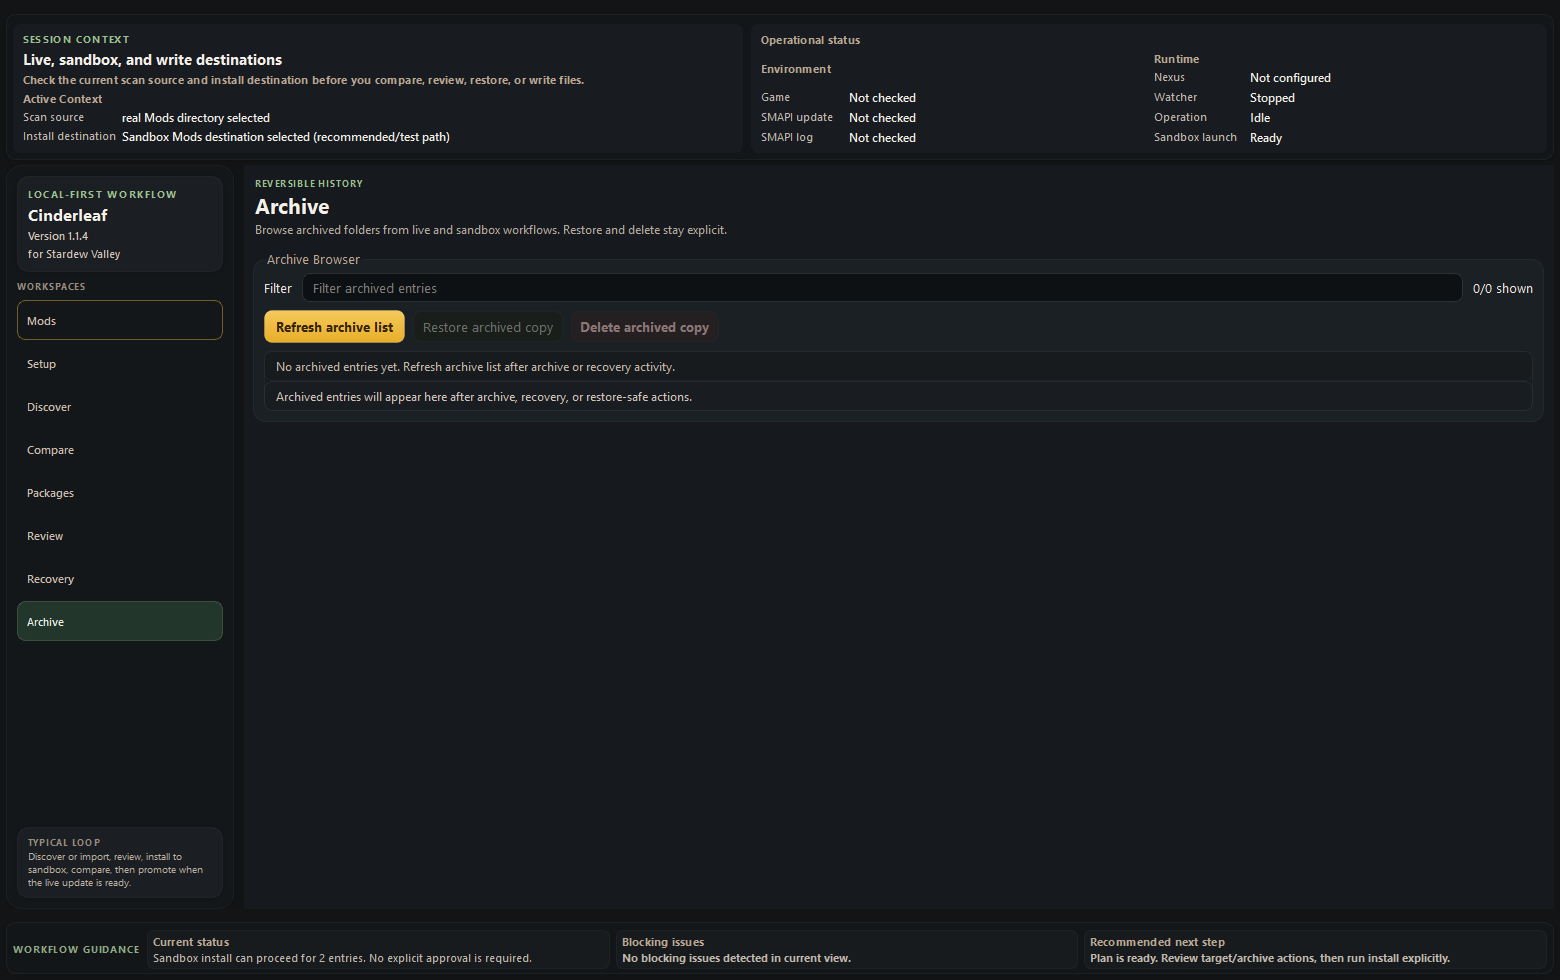
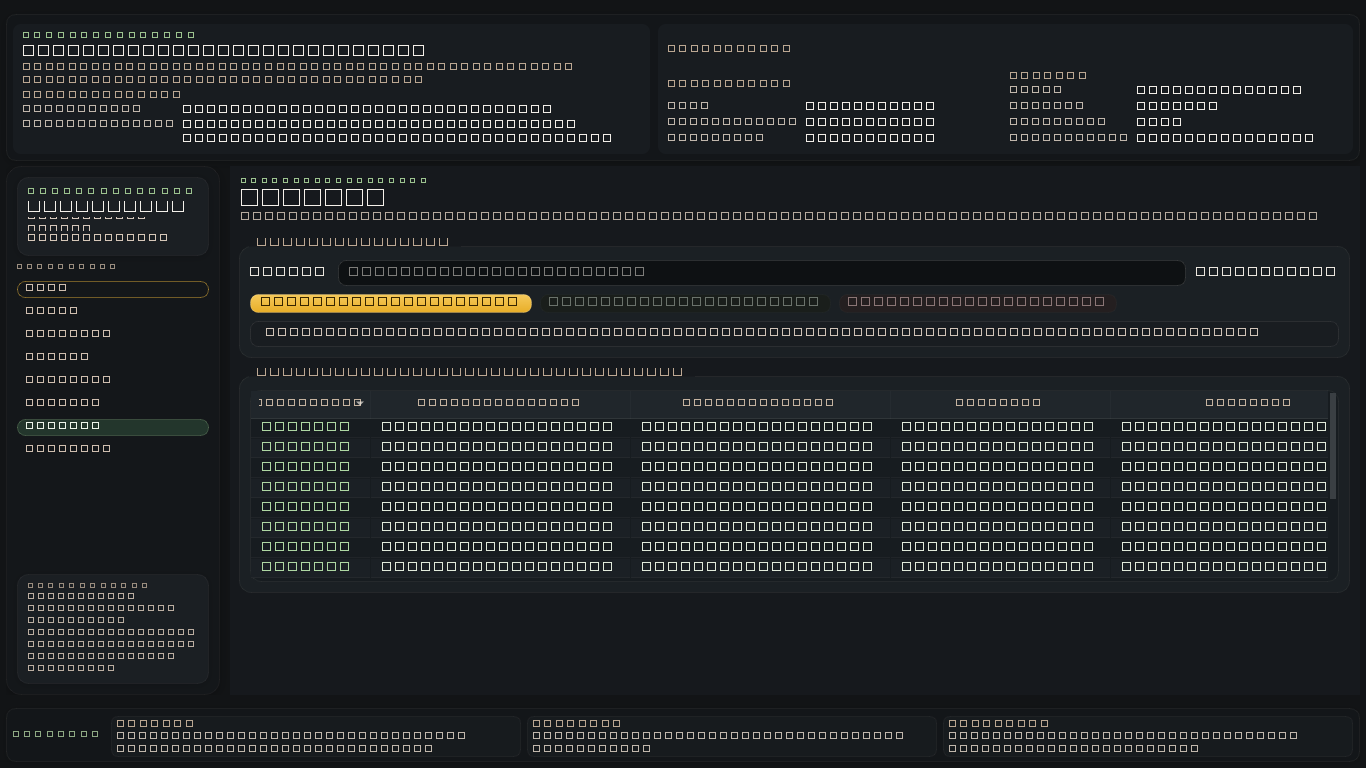
docs(readme): refresh release copy and low-height ui screenshots

diff --git a/README.md b/README.md
@@ -4,7 +4,7 @@
 
 `for Stardew Valley` is a descriptive subtitle, not an official affiliation. Cinderleaf is an independent community tool and is not affiliated with or endorsed by ConcernedApe.
 
-Current release candidate prepared in this branch: **1.1.6**
+Current public release: **1.1.6**
 
 ## Why use it
 
@@ -16,11 +16,17 @@ Current release candidate prepared in this branch: **1.1.6**
 
 ## Screenshots
 
+These screenshots reflect the current low-height-compatible UI at `1366x768`.
+
 ![Cinderleaf setup overview](media/nexus-screenshots/01-setup-overview.png)
 
 ![Cinderleaf mods workspace](media/nexus-screenshots/02-mods-workspace.png)
 
-![Cinderleaf packages workspace](media/nexus-screenshots/05-packages-workspace.png)
+![Cinderleaf discover workspace](media/nexus-screenshots/03-discover-workspace.png)
+
+![Cinderleaf compare workspace](media/nexus-screenshots/04-compare-workspace.png)
+
+![Cinderleaf archive workspace](media/nexus-screenshots/08-archive-workspace.png)
 
 ## Requirements
 
@@ -32,8 +38,8 @@ Current release candidate prepared in this branch: **1.1.6**
 
 The supported public build is a Windows portable zip published to GitHub Releases.
 
-1. Open the repository's GitHub Releases page.
-2. When the `1.1.6` GitHub Release is published, download `cinderleaf-1.1.6-windows-portable.zip`.
+1. Open the repository's [GitHub Releases page](https://github.com/meiameiameia/stardew-mod-manager/releases).
+2. Download `cinderleaf-1.1.6-windows-portable.zip`.
 3. Extract it to a normal folder.
 4. Run `Cinderleaf.exe`.
 
@@ -43,7 +49,7 @@ Current release caveats:
 
 - this is a portable folder, not an installer
 - Windows reputation prompts are still expected because code signing is not in place yet
-- auto-update is not implemented yet
+- Cinderleaf can notify you about newer releases, but it does not download or install updates for you
 
 ## Recommended workflow
 
